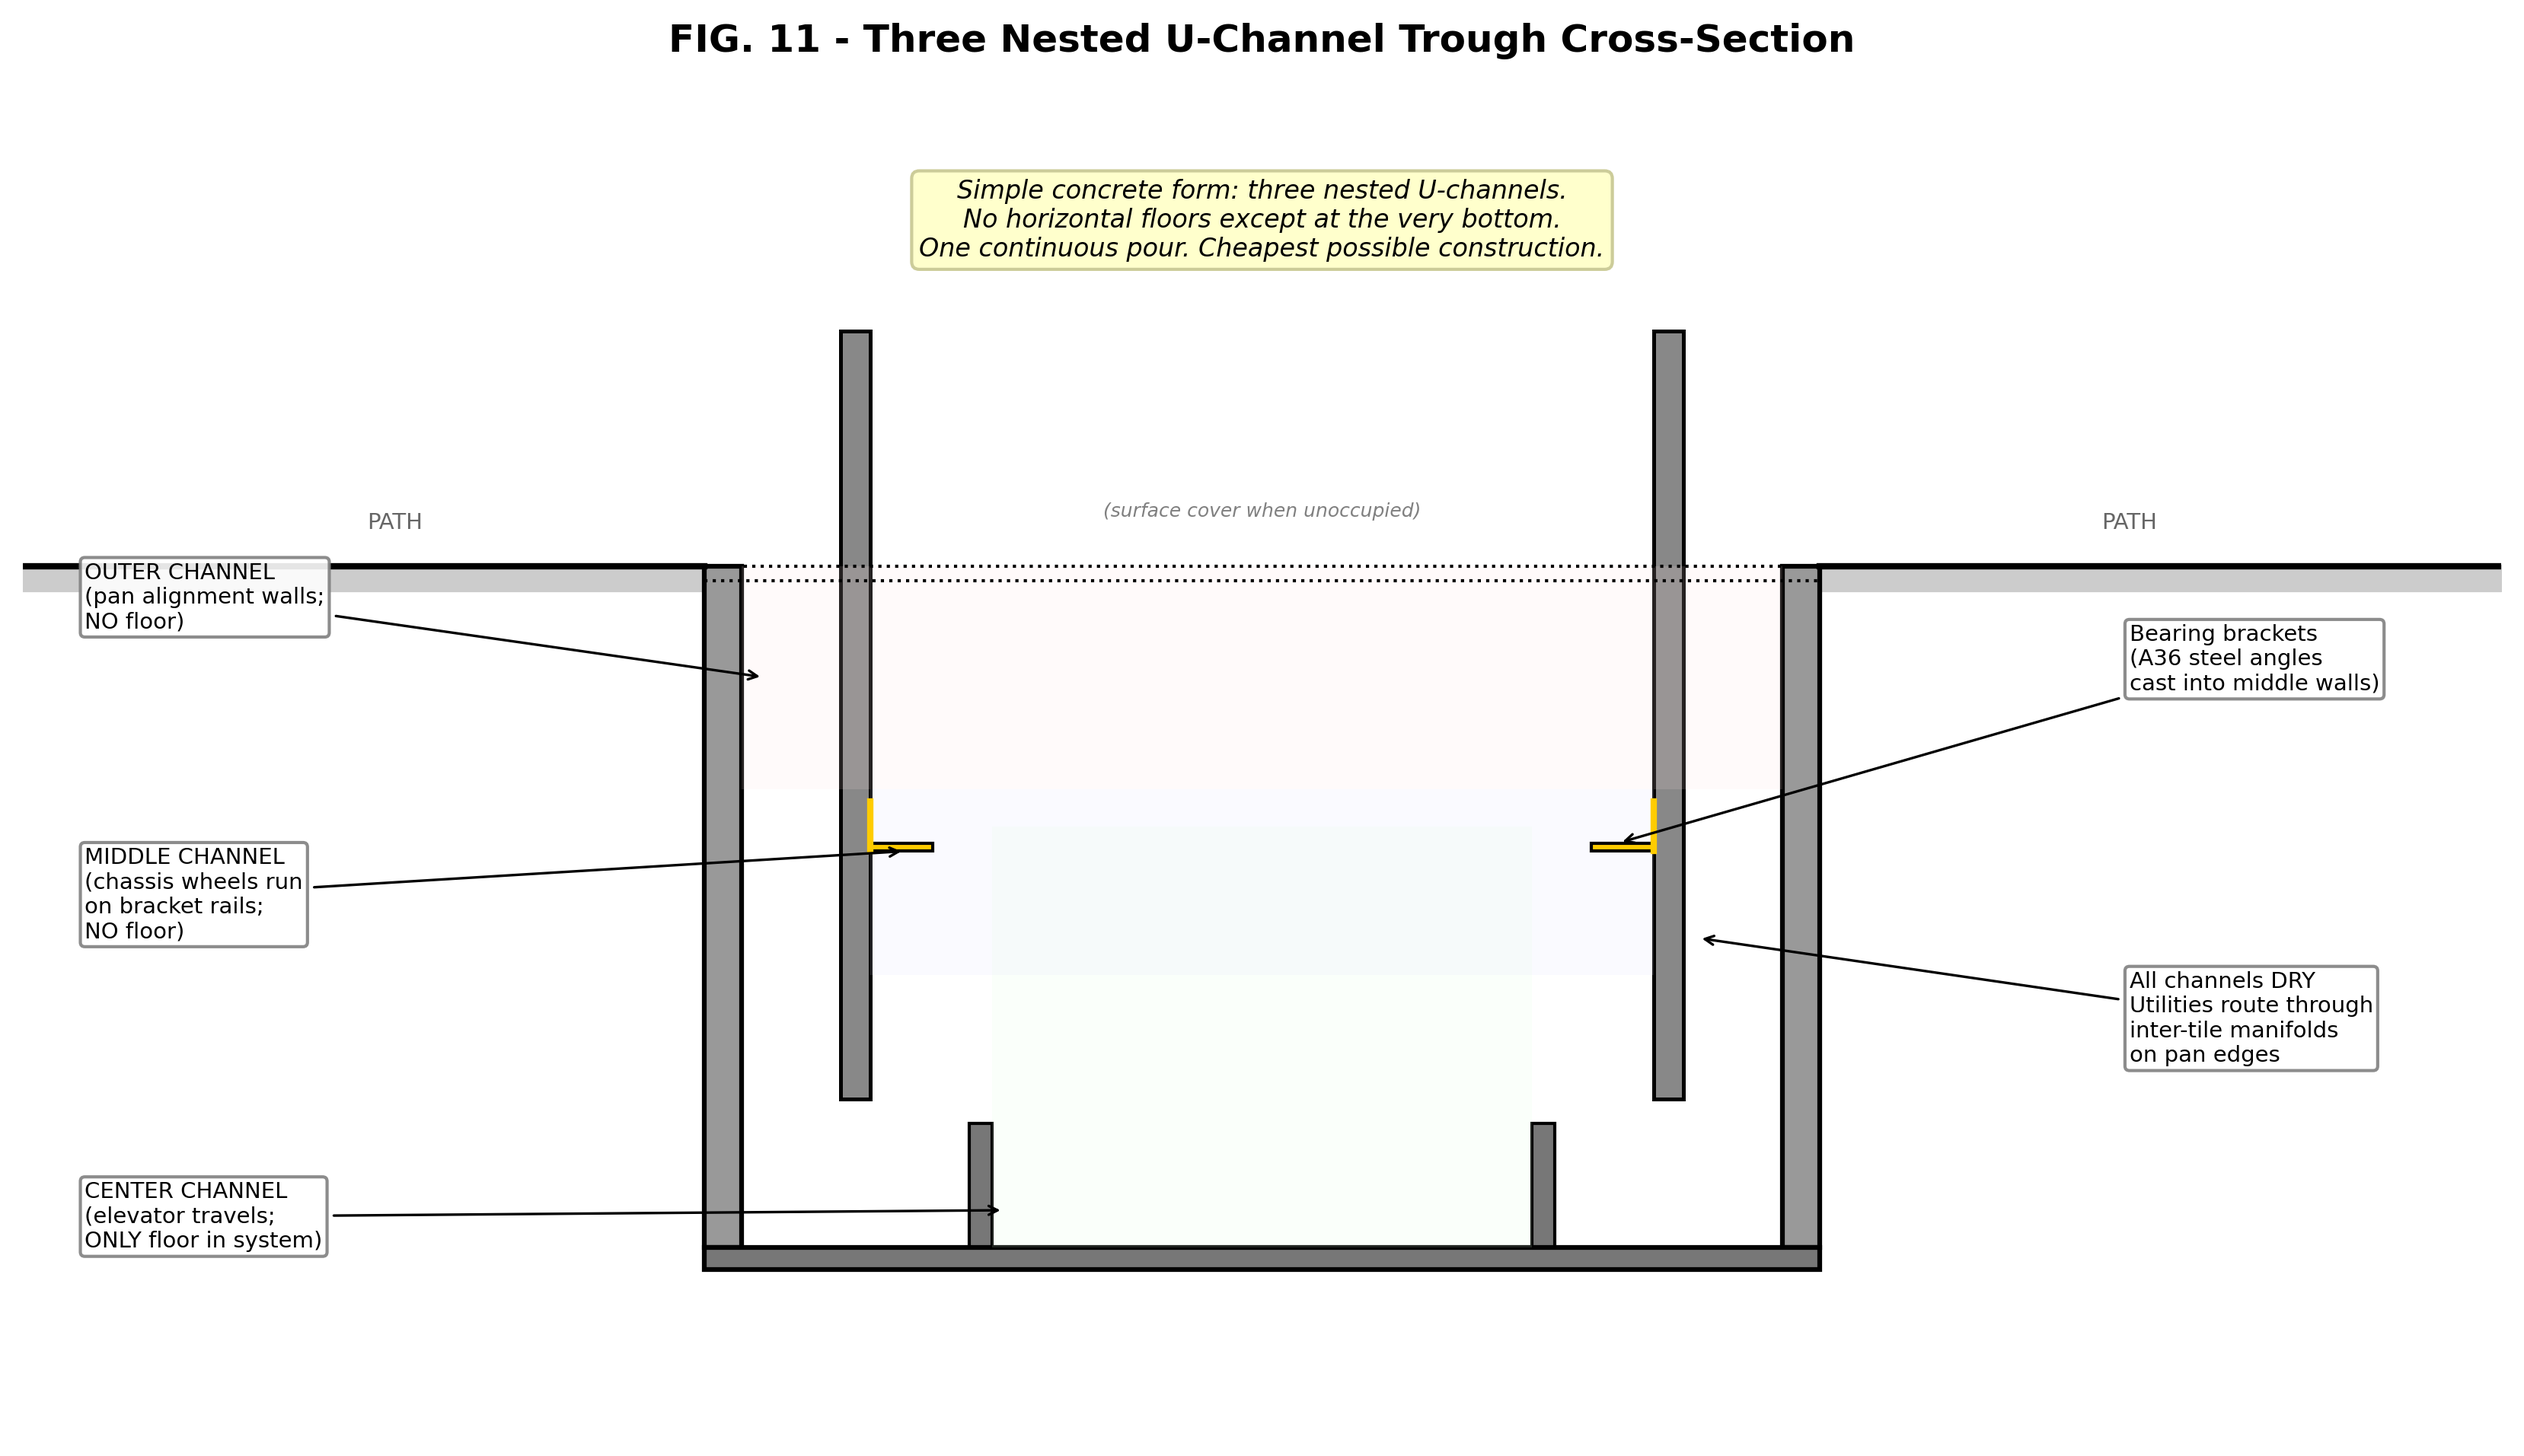
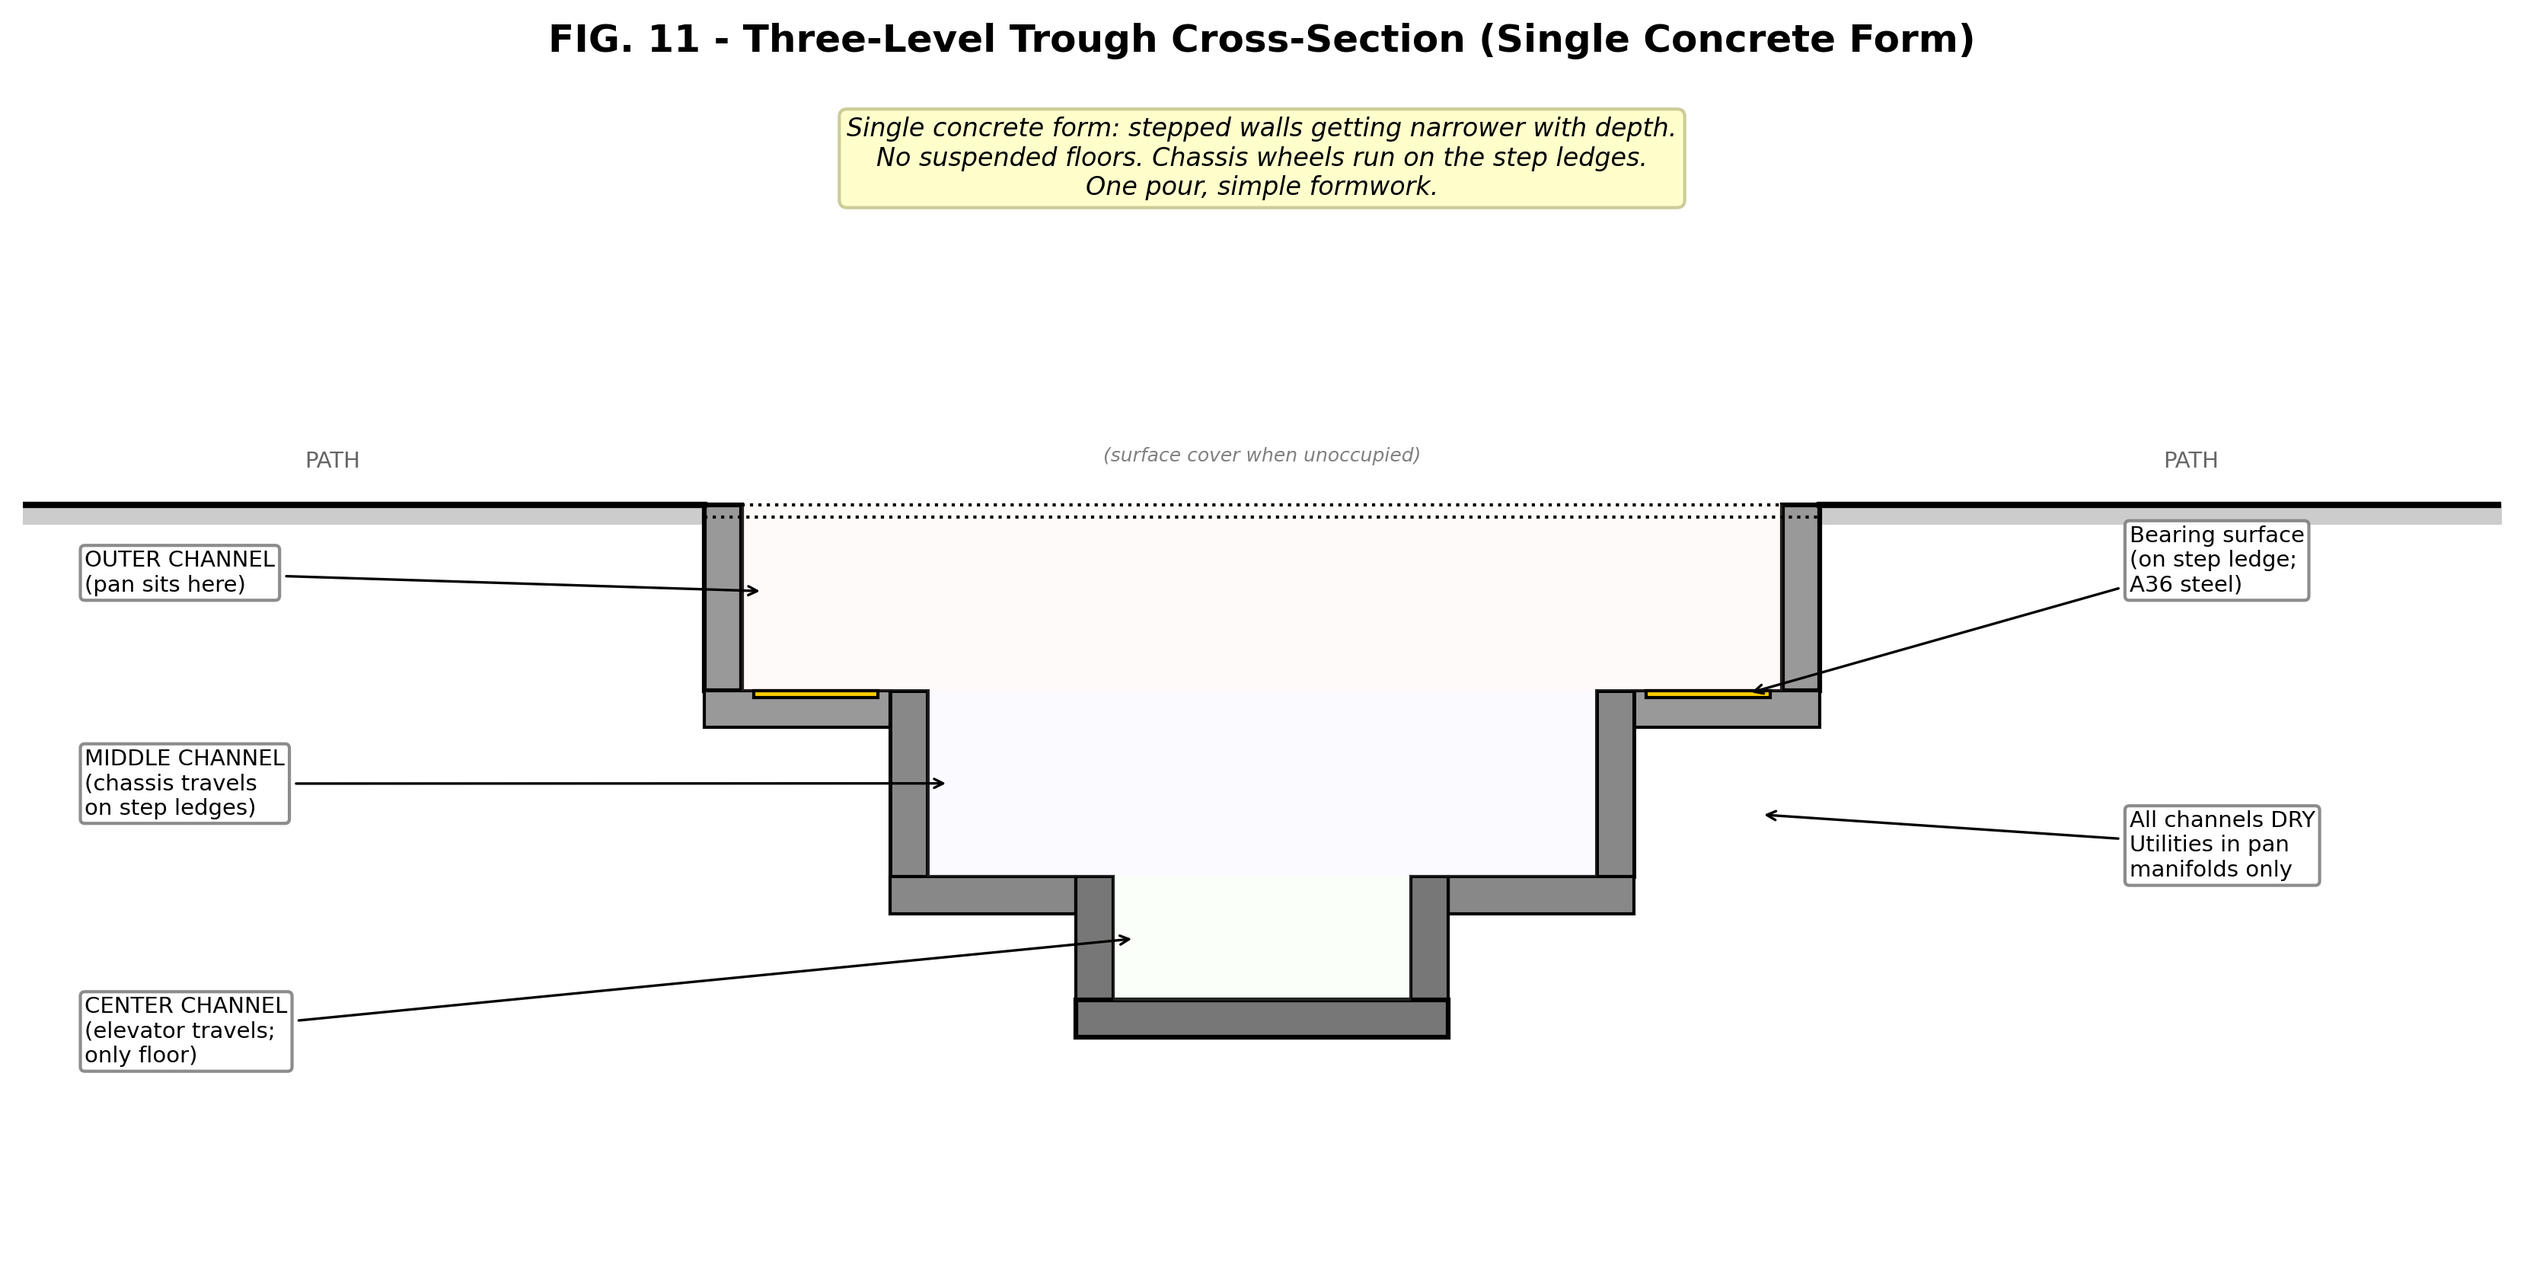
Fix Fig 11: single stepped concrete form, connected structure
Walls step inward at each level as one continuous pour.
Chassis wheels run on step ledges (bearing surfaces).
Only the center channel has a floor. No floating walls,
no disconnected elements. Reads clearly as buildable.

diff --git a/patent/generate_drawings_v3.py b/patent/generate_drawings_v3.py
@@ -243,115 +243,155 @@ def fig14_pickup_sequence():
 
 
 def fig11_three_level_trough():
-    """Three nested U-channels, only center has floor. Simplest concrete form."""
-    fig, ax = plt.subplots(1, 1, figsize=(14, 9))
+    """Three nested U-channels as ONE continuous concrete structure.
+    Walls step inward at each level. Only bottom has a floor."""
+    fig, ax = plt.subplots(1, 1, figsize=(14, 8))
     ax.set_xlim(-4, 16)
-    ax.set_ylim(-7, 4)
+    ax.set_ylim(-6, 3.5)
     ax.set_aspect('equal')
-    ax.set_title('FIG. 11 - Three Nested U-Channel Trough Cross-Section',
+    ax.set_title('FIG. 11 - Three-Level Trough Cross-Section (Single Concrete Form)',
                 fontsize=12, fontweight='bold')
 
     ground_y = 0
-    wall = 0.3
+    w = 0.3  # wall thickness
+
+    # Dimensions
+    # Outer channel: 9ft wide opening, 1.5ft deep
+    # Middle channel: 6ft wide, starts at bottom of outer, 1.5ft deep
+    # Center channel: 3ft wide, starts at bottom of middle, 1.0ft deep
+    # Total depth: 4.0ft
+
+    outer_w = 9.0
+    outer_d = 1.5
+    mid_w = 6.0
+    mid_d = 1.5
+    ctr_w = 3.0
+    ctr_d = 1.0
+
+    cx = 6.0  # center x of the whole structure
+    outer_l = cx - outer_w/2
+    outer_r = cx + outer_w/2
+    mid_l = cx - mid_w/2
+    mid_r = cx + mid_w/2
+    ctr_l = cx - ctr_w/2
+    ctr_r = cx + ctr_w/2
 
     # Ground surface
-    ax.fill_between([-4, 1.5], [ground_y]*2, [-0.2]*2, color='#cccccc')
-    ax.fill_between([10.5, 16], [ground_y]*2, [-0.2]*2, color='#cccccc')
-    ax.plot([-4, 1.5], [ground_y]*2, 'k-', linewidth=2)
-    ax.plot([10.5, 16], [ground_y]*2, 'k-', linewidth=2)
-    ax.text(-1, 0.3, 'PATH', fontsize=7, ha='center', color='#666')
-    ax.text(13, 0.3, 'PATH', fontsize=7, ha='center', color='#666')
+    ax.fill_between([-4, outer_l], [ground_y]*2, [-0.15]*2, color='#cccccc')
+    ax.fill_between([outer_r, 16], [ground_y]*2, [-0.15]*2, color='#cccccc')
+    ax.plot([-4, outer_l], [ground_y]*2, 'k-', linewidth=2)
+    ax.plot([outer_r, 16], [ground_y]*2, 'k-', linewidth=2)
+    ax.text(-1.5, 0.3, 'PATH', fontsize=7, ha='center', color='#666')
+    ax.text(13.5, 0.3, 'PATH', fontsize=7, ha='center', color='#666')
 
-    # === OUTER U-CHANNEL (widest, no floor) ===
-    outer_l, outer_r = 1.5, 10.5
-    outer_d = 5.5  # goes all the way down (no floor, open to middle)
-    # Left wall
-    ax.add_patch(patches.Rectangle((outer_l, -outer_d), wall, outer_d,
+    # Draw the entire structure as one continuous concrete profile
+    # Going clockwise from top-left:
+    profile_x = [
+        outer_l, outer_l,                          # left outer wall, top to step
+        mid_l, mid_l,                              # step inward, then down
+        ctr_l, ctr_l,                              # step inward again, then down
+        ctr_r, ctr_r,                              # across bottom, then up
+        mid_r, mid_r,                              # step outward, then up
+        outer_r, outer_r,                          # step outward to top
+    ]
+    profile_y = [
+        ground_y, -outer_d,                        # outer left wall
+        -outer_d, -outer_d - mid_d,               # middle left wall
+        -outer_d - mid_d, -outer_d - mid_d - ctr_d,  # center left wall
+        -outer_d - mid_d - ctr_d, -outer_d - mid_d,  # center right wall (up)
+        -outer_d - mid_d, -outer_d,               # middle right wall (up)
+        -outer_d, ground_y,                        # outer right wall (up)
+    ]
+
+    # Fill the concrete (draw as thick walls by offsetting)
+    # Simpler approach: draw the OUTER profile and INNER profile
+    # Outer profile is the outside face of all concrete
+    # Inner profile is the inside face (the open channels)
+
+    # LEFT SIDE concrete mass
+    # Outer wall
+    ax.add_patch(patches.Rectangle((outer_l, -outer_d), w, outer_d,
                  facecolor='#999', edgecolor='black', linewidth=1.5))
-    # Right wall
-    ax.add_patch(patches.Rectangle((outer_r - wall, -outer_d), wall, outer_d,
+    # Left step (horizontal ledge connecting outer to middle wall)
+    ax.add_patch(patches.Rectangle((outer_l, -outer_d - w), mid_l - outer_l, w,
+                 facecolor='#999', edgecolor='black', linewidth=1))
+    # Middle left wall
+    ax.add_patch(patches.Rectangle((mid_l, -outer_d - mid_d), w, mid_d,
+                 facecolor='#888', edgecolor='black', linewidth=1.2))
+    # Left step (horizontal ledge connecting middle to center wall)
+    ax.add_patch(patches.Rectangle((mid_l, -outer_d - mid_d - w), ctr_l - mid_l, w,
+                 facecolor='#888', edgecolor='black', linewidth=1))
+    # Center left wall
+    ax.add_patch(patches.Rectangle((ctr_l, -outer_d - mid_d - ctr_d), w, ctr_d,
+                 facecolor='#777', edgecolor='black', linewidth=1))
+
+    # RIGHT SIDE (mirror)
+    ax.add_patch(patches.Rectangle((outer_r - w, -outer_d), w, outer_d,
                  facecolor='#999', edgecolor='black', linewidth=1.5))
-    # NO FLOOR (open into middle channel)
-
-    # === MIDDLE U-CHANNEL (narrower, no floor) ===
-    mid_l = outer_l + wall + 0.8  # step inward
-    mid_r = outer_r - wall - 0.8
-    mid_top = -1.8  # starts below pan zone
-    mid_d = 2.5
-    # Left wall
-    ax.add_patch(patches.Rectangle((mid_l, mid_top - mid_d), wall * 0.8, mid_d + mid_top + outer_d,
+    ax.add_patch(patches.Rectangle((mid_r, -outer_d - w), outer_r - mid_r, w,
+                 facecolor='#999', edgecolor='black', linewidth=1))
+    ax.add_patch(patches.Rectangle((mid_r - w, -outer_d - mid_d), w, mid_d,
                  facecolor='#888', edgecolor='black', linewidth=1.2))
-    # Right wall  
-    ax.add_patch(patches.Rectangle((mid_r - wall*0.8, mid_top - mid_d), wall * 0.8, mid_d + mid_top + outer_d,
-                 facecolor='#888', edgecolor='black', linewidth=1.2))
-    # NO FLOOR (open into center channel)
+    ax.add_patch(patches.Rectangle((ctr_r, -outer_d - mid_d - w), mid_r - ctr_r, w,
+                 facecolor='#888', edgecolor='black', linewidth=1))
+    ax.add_patch(patches.Rectangle((ctr_r - w, -outer_d - mid_d - ctr_d), w, ctr_d,
+                 facecolor='#777', edgecolor='black', linewidth=1))
 
-    # === CENTER U-CHANNEL (narrowest, HAS FLOOR) ===
-    ctr_l = mid_l + wall*0.8 + 0.8
-    ctr_r = mid_r - wall*0.8 - 0.8
-    ctr_top = mid_top - 1.5
-    ctr_d = 1.2
-    ctr_floor = -outer_d
-    # Left wall
-    ax.add_patch(patches.Rectangle((ctr_l, ctr_floor), wall * 0.6, outer_d - (-ctr_top + ctr_d),
-                 facecolor='#777', edgecolor='black', linewidth=1))
-    # Right wall
-    ax.add_patch(patches.Rectangle((ctr_r - wall*0.6, ctr_floor), wall * 0.6, outer_d - (-ctr_top + ctr_d),
-                 facecolor='#777', edgecolor='black', linewidth=1))
-    # FLOOR (only level with a floor)
-    ax.add_patch(patches.Rectangle((outer_l, ctr_floor - wall*0.6), outer_r - outer_l, wall * 0.6,
+    # BOTTOM FLOOR (only floor in the system)
+    ax.add_patch(patches.Rectangle((ctr_l, -outer_d - mid_d - ctr_d - w), ctr_w, w,
                  facecolor='#777', edgecolor='black', linewidth=1.5))
 
-    # Fill zones with subtle color
-    # Outer zone (pan sits here, above mid_top)
-    ax.add_patch(patches.Rectangle((outer_l + wall, mid_top), 
-                 outer_r - outer_l - 2*wall, -mid_top,
+    # Fill channel zones with color
+    # Outer channel zone (above the steps)
+    ax.add_patch(patches.Rectangle((outer_l + w, -outer_d),
+                 outer_w - 2*w, outer_d,
                  facecolor='#ffe0e0', edgecolor='none', alpha=0.15))
-    # Middle zone (chassis travels, between mid walls)
-    ax.add_patch(patches.Rectangle((mid_l + wall*0.8, ctr_top),
-                 mid_r - mid_l - 2*wall*0.8, mid_top - ctr_top,
+    # Middle channel zone
+    ax.add_patch(patches.Rectangle((mid_l + w, -outer_d - mid_d),
+                 mid_w - 2*w, mid_d,
                  facecolor='#e0e0ff', edgecolor='none', alpha=0.15))
-    # Center zone (elevator travels)
-    ax.add_patch(patches.Rectangle((ctr_l + wall*0.6, ctr_floor),
-                 ctr_r - ctr_l - 2*wall*0.6, ctr_top - ctr_floor + ctr_d,
+    # Center channel zone
+    ax.add_patch(patches.Rectangle((ctr_l + w, -outer_d - mid_d - ctr_d),
+                 ctr_w - 2*w, ctr_d,
                  facecolor='#e0ffe0', edgecolor='none', alpha=0.15))
 
-    # Bearing plates (steel angle brackets cast into middle trough walls)
-    bp_w = 0.5
+    # Bearing brackets on the STEP LEDGES (where chassis wheels run)
     bp_h = 0.06
-    bp_y = mid_top - 0.5  # where chassis wheels run
-    # Left bracket
-    ax.add_patch(patches.Rectangle((mid_l + wall*0.8, bp_y), bp_w, bp_h,
-                 facecolor='#ffcc00', edgecolor='black', linewidth=1))
-    ax.plot([mid_l + wall*0.8, mid_l + wall*0.8], [bp_y, bp_y + 0.4], 
-           color='#ffcc00', linewidth=2)  # vertical bracket part
+    # Left bracket (on the outer-to-middle step)
+    bp_y = -outer_d
+    ax.add_patch(patches.Rectangle((outer_l + w + 0.1, bp_y - bp_h),
+                 mid_l - outer_l - w - 0.2, bp_h,
+                 facecolor='#ffcc00', edgecolor='black'))
     # Right bracket
-    ax.add_patch(patches.Rectangle((mid_r - wall*0.8 - bp_w, bp_y), bp_w, bp_h,
-                 facecolor='#ffcc00', edgecolor='black', linewidth=1))
-    ax.plot([mid_r - wall*0.8, mid_r - wall*0.8], [bp_y, bp_y + 0.4],
-           color='#ffcc00', linewidth=2)
+    ax.add_patch(patches.Rectangle((mid_r + 0.1, bp_y - bp_h),
+                 outer_r - w - mid_r - 0.2, bp_h,
+                 facecolor='#ffcc00', edgecolor='black'))
 
-    # Surface cover (dashed, when empty)
-    ax.add_patch(patches.Rectangle((outer_l, -0.12), outer_r - outer_l, 0.12,
+    # Surface cover (dashed)
+    ax.add_patch(patches.Rectangle((outer_l, -0.1), outer_w, 0.1,
                  facecolor='none', edgecolor='black', linewidth=1, linestyle=':'))
-    ax.text(6, 0.4, '(surface cover when unoccupied)', ha='center', fontsize=6,
+    ax.text(cx, 0.35, '(surface cover when unoccupied)', ha='center', fontsize=6,
            color='gray', style='italic')
 
-    # Labels - spread out vertically to prevent overlap
+    # Labels
     labels = [
-        ((-3.5, -0.5), (outer_l + 0.5, -0.9), 'OUTER CHANNEL\n(pan alignment walls;\nNO floor)'),
-        ((-3.5, -3.0), (mid_l + wall*0.8 + 0.3, bp_y), 'MIDDLE CHANNEL\n(chassis wheels run\non bracket rails;\nNO floor)'),
-        ((-3.5, -5.5), (ctr_l + 0.3, ctr_floor + 0.3), 'CENTER CHANNEL\n(elevator travels;\nONLY floor in system)'),
-        ((13, -1.0), (mid_r - wall*0.8 - bp_w + 0.2, bp_y + bp_h),
-         'Bearing brackets\n(A36 steel angles\ncast into middle walls)'),
-        ((13, -4.0), (outer_r - 1, -3), 'All channels DRY\nUtilities route through\ninter-tile manifolds\non pan edges'),
+        ((-3.5, -0.7), (outer_l + 0.5, -0.7),
+         'OUTER CHANNEL\n(pan sits here)'),
+        ((-3.5, -2.5), (mid_l + 0.5, -outer_d - mid_d/2),
+         'MIDDLE CHANNEL\n(chassis travels\non step ledges)'),
+        ((-3.5, -4.5), (ctr_l + 0.5, -outer_d - mid_d - ctr_d/2),
+         'CENTER CHANNEL\n(elevator travels;\nonly floor)'),
+        ((13, -0.7), (outer_r - w - 0.3, bp_y - bp_h/2),
+         'Bearing surface\n(on step ledge;\nA36 steel)'),
+        ((13, -3.0), (outer_r - 0.5, -outer_d - 1),
+         'All channels DRY\nUtilities in pan\nmanifolds only'),
     ]
     for text_pos, target, label in labels:
         ax.annotate(label, xy=target, xytext=text_pos, fontsize=7,
                    arrowprops=dict(arrowstyle='->', lw=0.8),
                    bbox=dict(boxstyle='round,pad=0.2', facecolor='white', edgecolor='gray', alpha=0.9))
 
-    ax.text(6, 2.5, 'Simple concrete form: three nested U-channels.\nNo horizontal floors except at the very bottom.\nOne continuous pour. Cheapest possible construction.',
+    ax.text(cx, 2.5, 'Single concrete form: stepped walls getting narrower with depth.\nNo suspended floors. Chassis wheels run on the step ledges.\nOne pour, simple formwork.',
            ha='center', fontsize=8, style='italic',
            bbox=dict(boxstyle='round', facecolor='#ffffcc', edgecolor='#cc9'))
 
